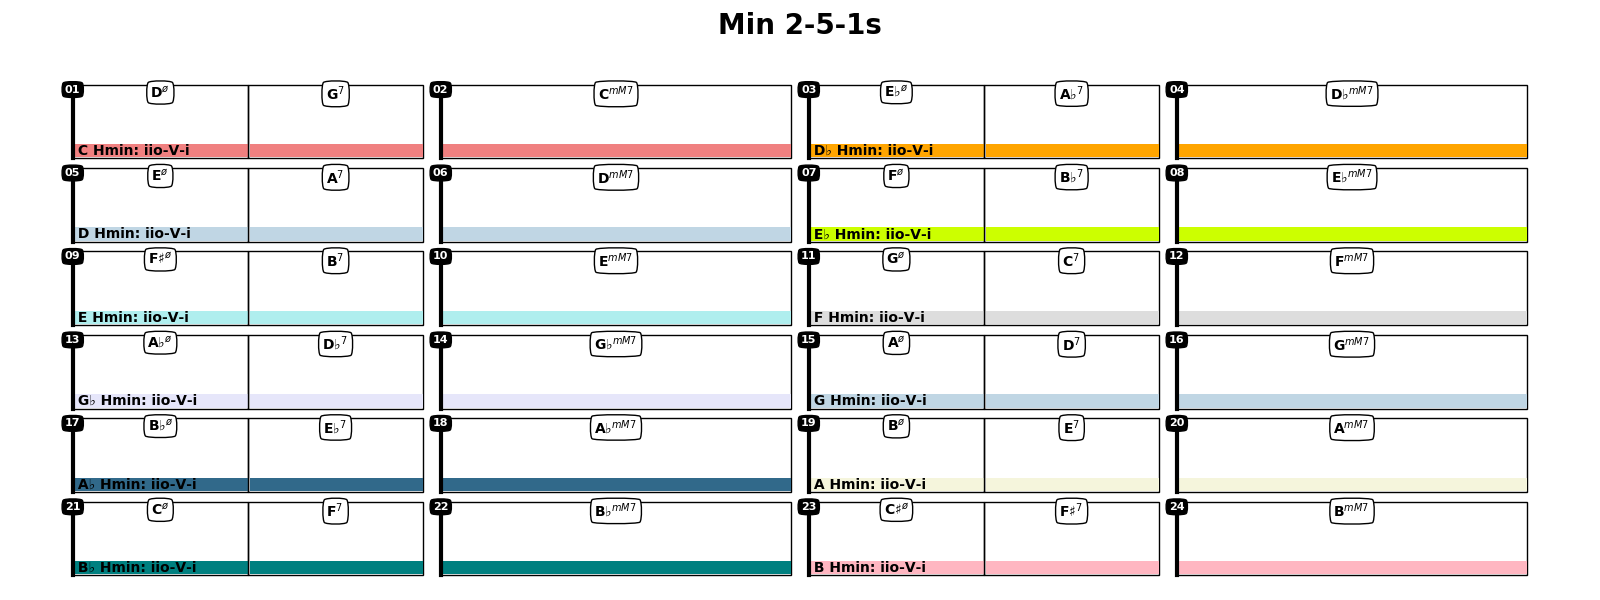
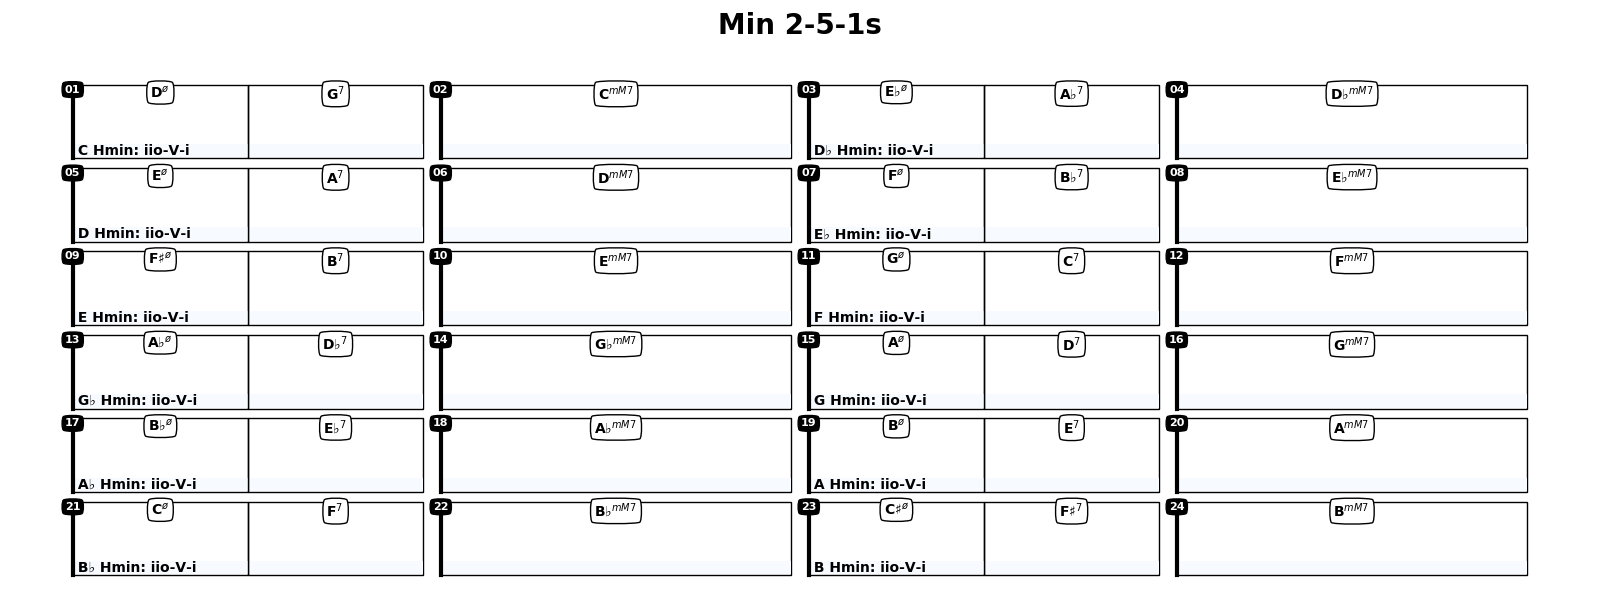
added annotate.append to facilitate annotations changes scales color simplified annotation code

diff --git a/jazzElements/annotate.py b/jazzElements/annotate.py
@@ -134,27 +134,26 @@ class CadenceGraph():
         except ImportError:
             warnings.warn('graphviz needs to be installed to plot cadence graphs')
 
+
 ##
 class Annotate():
-    def __init__(self, chords,ann=None):
+    def __init__(self, chords, ann=None):
+        fields = ['fn', 'deg', 'sca', 'cad', 'cadPos', 'chrPos']
         self.name = ''
         self.description = ''
-        if isinstance(ann,pd.DataFrame):
-            self.ann=ann
+        if isinstance(ann, pd.DataFrame):
+            self.ann = ann
         else:
-            self.ann = pd.DataFrame([ [ [] for _ in range(4)] for _ in range(len(chords))],
-                      columns=['fn', 'deg', 'sca', 'cad'],
-                      index=range(len(chords)))
+            self.ann = pd.DataFrame([[[] for _ in range(len(fields))] for _ in range(len(chords))],
+                                    columns=fields,
+                                    index=range(len(chords)))
         if isinstance(chords, pd.DataFrame):
             self.chords = [Chord(c) for c in chords['chr'].values]
         else:
             self.chords = [Chord(c) for c in chords]
 
-    def append(self,idx,v):
-        if isinstance(v,list) and len(v)==len(self.ann.columns):
-            for k,vi in zip(self.ann.columns,v):
-                self.ann.loc[idx][k].append(vi)
-        elif isinstance(v,dict):
+    def append(self, idx, v):
+        if isinstance(v, dict):
             for k in v:
                 self.ann.loc[idx][k].append(v[k])
         else:
@@ -320,13 +319,6 @@ class annGraph(Annotate):
         return Seq
 
     def annotate(self, reduce=True):
-        fn = [[] for c in self.chords]
-        deg = [[] for c in self.chords]
-        sca = [[] for c in self.chords]
-        cad = [[] for c in self.chords]
-        rank = [[] for c in self.chords]
-        pos = [[] for c in self.chords]
-
         # Find cadences in all keys
         X = []  # [(<size>,<start>,<key>,<cadence>),...]
         for key in Note.chrFlat:
@@ -337,24 +329,14 @@ class annGraph(Annotate):
         X.sort(key=lambda x: x[0], reverse=True)  # Sort by size
 
         used = [False] * len(self.chords)
-        for x in X:
+        for x in X:  # x=(<size>,<start>,<key>,<cadenceList>)
             if not reduce or not all(used[x[1]:(x[1] + x[0])]):  # All spots are unused
-                rnk = max([len(sca[c]) for c in range(x[1], (x[1] + x[0]))])
+                rnk = max([max(self.ann.loc[c]['cadPos']) if self.ann.loc[c]['cadPos'] else -1 for c in range(x[1], (x[1] + x[0]))])+1
                 # todo rank bug, e.g. myromance chord 2, two cadences have the same rank
                 for ci, c in enumerate(range(x[1], (x[1] + x[0]))):
                     # self.fn[c].append(CadenceGraph.fnTypes[x[3][ci]]) #todo: fix
-                    deg[c].append(x[3][ci])
-                    sca[c].append(x[2])
-                    cad[c].append('-'.join(x[3]))
+                    self.append(c,
+                                dict(deg=x[3][ci], sca=x[2],
+                                     cad='-'.join(x[3]), cadPos=rnk,
+                                     chrPos=ci))
                     used[c] = True
-                    rank[c].append(rnk)
-                    pos[c].append(ci)
-
-        self.ann = pd.DataFrame(dict(fn=fn, deg=deg, sca=sca, cad=cad, cadPos=rank, chrPos=pos))
-
-
-from jazzElements.progression import Progression
-
-prg = Progression('Misty')
-
-self = annWalkThatBass(prg.chords)

diff --git a/jazzElements/progression.py b/jazzElements/progression.py
@@ -3,6 +3,8 @@ import re
 import pandas as pd
 from matplotlib import patches
 from matplotlib.pyplot import *
+import matplotlib.colors as colors
+import matplotlib.cm as cmx
 
 from jazzElements.annotate import annGraph
 from jazzElements.chord import Chord
@@ -104,19 +106,6 @@ class Progression:
                  va='top', ha='center', fontSize=10,
                  bbox=dict(boxstyle='round4', fc='w'), weight=1000)
 
-            # if 'sca' in ann:
-            #     for si, s in enumerate(ann['sca']):
-            #         if len(s):
-            #             if chr == 0 or s not in self.chords.loc[chr - 1].get('sca', []):
-            #                 text(xChr + 2, yChr + cadh / 2 + ann['cadPos'][si] * cadh, s,
-            #                      color='k', va='center',
-            #                      ha='left', fontSize=10, weight='bold')
-            #
-            # if 'deg' in ann:
-            #     for di, d in enumerate(ann['deg']):
-            #         text(xChr + wChr, yChr + cadh / 2 + ann['cadPos'][di] * cadh - 1, d, color='k',
-            #              va='center', ha='right', fontSize=10, weight='bold')
-
             if 'cad' in ann:
                 for ci, c in enumerate(ann['cad']):
                     if len(c.split('-')) == 1: # Isolated chord
@@ -128,7 +117,7 @@ class Progression:
                     else: # Cadence
                         # plot bgd
                         bgd = patches.Rectangle((xChr+2, yChr + ann['cadPos'][ci] * cadh+2), wChr-2, cadh-3, fill=True,
-                                                clip_on=False, color=self.cfg['scaleColors'][ann['sca'][ci]], alpha=1, ec=None)
+                                                clip_on=False, color=self.cfg['scaleColors'][ann['sca'][ci]], ec=None)
                         ax.add_patch(bgd)
 
                         # Print cadence if first chord
@@ -205,8 +194,10 @@ class Progression:
             return []
 
     def plot(self, plotType='fn'):
-        # todo: Scaling issues
-        self.cfg['scaleColors'] = {x[0]: self.cfg['colors'][i] for i, x in enumerate(self.countKeys())}
+        keys = self.countKeys()
+        cNorm = colors.Normalize(vmin=min([k[1] for k in keys]), vmax=1.5 * max([k[1] for k in keys]))
+        scalarMap = cmx.ScalarMappable(norm=cNorm, cmap=get_cmap('Blues'))
+        self.cfg['scaleColors'] = {x[0]: scalarMap.to_rgba(x[1]) for i, x in enumerate(keys)}
 
         nbRows = np.ceil(self.nbBars / self.cfg['barsPerRow'])
         wBar, hBar = 400, 150
@@ -233,6 +224,8 @@ class Progression:
             warnings.warn('not implemented')
 
         self.ann.annotate(reduce=reduce)
+
+
 
 
 

diff --git a/docs/mkDocFigs.py b/docs/mkDocFigs.py
@@ -10,13 +10,13 @@ from jazzElements.annotate import CadenceGraph
 #todo: automatize mkDocFigs on sphynx build
 
 prg = Progression('Misty')
-prg.annotate(method='graph',model='majKostka', reduce=False)
+prg.annotate(method='graph', reduce=False)
 prg.plot('fn')
 savefig('./img/MistyFn.png')
 close('all')
 
 prg = Progression('Misty')
-prg.annotate(method='graph',model='majKostka', reduce=False)
+prg.annotate(method='graph', reduce=False)
 prg.plot('kbd')
 savefig('./img/MistyKbd.png')
 close('all')
@@ -49,13 +49,14 @@ for i, n in enumerate(Note.chrSharp):
     ax.set_ylim(0, 60)
     plotNotes(Chord(str(n) + 'm7').notes, pos=[0, 0, 100, 60], name=str(n) + 'm7',ax=ax)
     axis('off')
-suptitle('Xm7 in all keys');
+suptitle('Xm7 in all keys')
 savefig('./img/allKeys.png')
 close('all')
 
 
-CadenceGraph('C').plot(tgt='./img/majKostka', showChords=True)
+CadenceGraph('C','majKostka').plot(tgt='./img/majKostka', showChords=True)
 CadenceGraph('C','minKostka').plot(tgt='./img/minKostka', showChords=True)
+close('all')
 
 
 
@@ -70,6 +71,7 @@ prg.plot('kbd')
 savefig('./img/maj251sKbd.png')
 prg.plot('fn')
 savefig('./img/maj251sFn.png')
+close('all')
 
 # Minor2-5-1
 seq=''.join(['|{},{}|{}'.format(
@@ -82,3 +84,8 @@ prg.plot('kbd')
 savefig('./img/min251sKbd.png')
 prg.plot('fn')
 savefig('./img/min251sFn.png')
+
+close('all')
+
+
+

diff --git a/scripts/test.py b/scripts/test.py
@@ -1,10 +1,17 @@
-# import warnings
-# import pandas as pd
-# from jazzElements.chord import Chord
-# from jazzElements.note import Note
-# from jazzElements.scale import Scale
-# from jazzElements.progression import Progression
-# from jazzElements.annotate import annGraph
+import warnings
+import pandas as pd
+from jazzElements.chord import Chord
+from jazzElements.note import Note
+from jazzElements.scale import Scale
+from jazzElements.progression import Progression
+from jazzElements.annotate import annGraph
+
+
+prg = Progression('Misty')
+prg.annotate()
+print(prg.ann.ann.loc[13])
+
+
 
 """
 todo: fix bar separation
@@ -59,6 +66,7 @@ ann.plot()
 # self=annGraph(prg.chords)
 # self.annotate(reduce=False)
 # self.plot()
+
 
 
 
